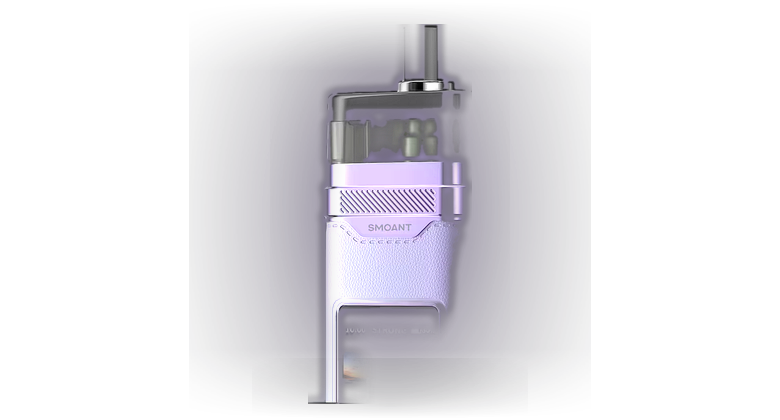
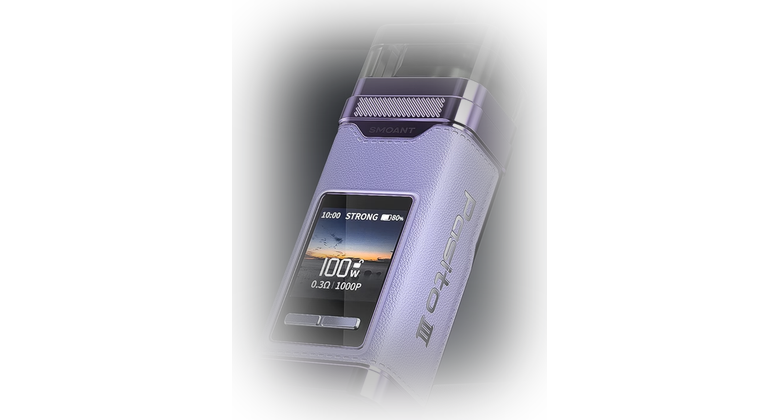
dev21 PASITO 3: карточки из официальных фото — устройство целиком (не обрезано), тёмный фон, все 8 цветов; кэш 20261012a

Changed region(s): [[0.3385, 0.031, 0.7385, 0.9595], [0.2462, 0.1548, 0.3077, 0.8357]]

diff --git a/index.html b/index.html
@@ -5,7 +5,7 @@
 <meta name="viewport" content="width=device-width, initial-scale=1, maximum-scale=1, user-scalable=no">
 <title>VapeOasis — мини-приложение</title>
 <script src="https://telegram.org/js/telegram-web-app.js"></script>
-<link rel="stylesheet" href="style.css?v=20261011f">
+<link rel="stylesheet" href="style.css?v=20261012a">
 </head>
 <body>
 <div id="fx"></div>
@@ -82,7 +82,7 @@
 
 <div class="sheet" id="sheet"><div class="in" id="sheetIn"></div></div>
 
-<script src="products.js?v=20261011f"></script>
-<script src="app.js?v=20261011f"></script>
+<script src="products.js?v=20261012a"></script>
+<script src="app.js?v=20261012a"></script>
 </body>
 </html>

diff --git a/app.js b/app.js
@@ -20,7 +20,7 @@ let discountPick = localStorage.getItem("vo_disc") || null; // жижа, на к
 
 const $ = s=>document.querySelector(s);
 const money = n=>n+"₽";
-const IMG_VER = "20261011f";
+const IMG_VER = "20261012a";
 const imgv = u => u ? (u.indexOf("?")>=0 ? u : u+"?v="+IMG_VER) : u;
 const byId = id=>PRODUCTS.find(p=>p.id===id);
 const catEmoji = c=>({liquids:"🧪",pods:"🔌",disposable:"💨",cartridges:"♻",snus:"📦"}[c]||"•");
